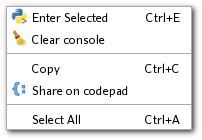
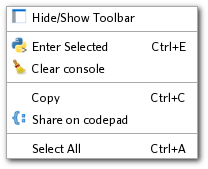
Added action: Hide/Show toolbar for PyQGIS Console - image help update

Changed region(s): [[0.0297, 0.0286, 0.9802, 0.9714], [0.7129, 0.2286, 0.8911, 0.3143]]

diff --git a/python/console/console_output.py b/python/console/console_output.py
@@ -165,6 +165,11 @@ class EditorOutput(QsciScintilla):
         iconRun = QIcon(":/images/console/iconRunConsole.png")
         iconPastebin = QIcon(":/images/console/iconCodepadConsole.png")
         iconClear = QIcon(":/images/console/iconClearConsole.png")
+        iconHideTool = QIcon(":/images/console/iconHideToolConsole.png")
+        hideToolBar = menu.addAction(iconHideTool, 
+                                     "Hide/Show Toolbar", 
+                                     self.hideToolBar)
+        menu.addSeparator()
         runAction = menu.addAction(iconRun, 
                                    "Enter Selected", 
                                    self.enteredSelected, 
@@ -196,6 +201,11 @@ class EditorOutput(QsciScintilla):
             selectAllAction.setEnabled(True)
             clearAction.setEnabled(True)
         action = menu.exec_(self.mapToGlobal(e.pos()))
+        
+    def hideToolBar(self):
+        tB = self.parent.toolBar
+        tB.hide() if tB.isVisible() else tB.show()
+        self.edit.setFocus()
             
     def copy(self):
         """Copy text to clipboard... or keyboard interrupt"""
